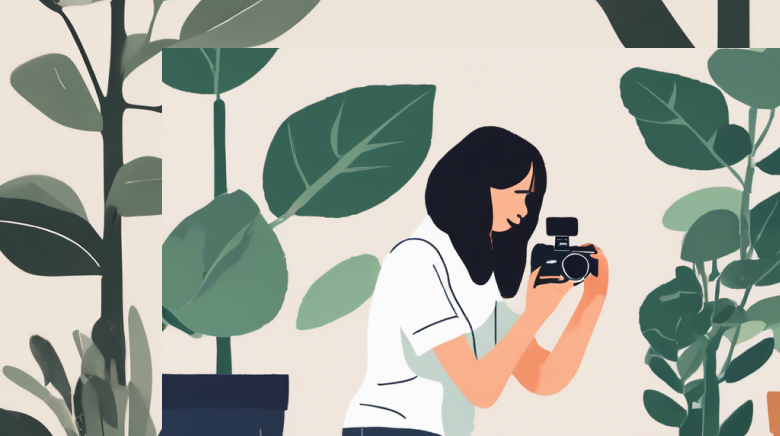
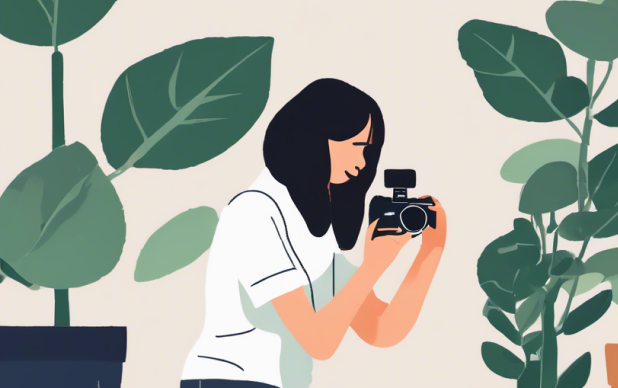
implement parallax scrolling feature in login screen and enhance input validation

diff --git a/floraWise/app/(login)/index.tsx b/floraWise/app/(login)/index.tsx
@@ -1,85 +1,119 @@
+import ParallaxScrollView from "@/components/ParallaxScrollView";
 import { ButtonComponent } from "@/components/ui/ButtonComponent";
 import { InputComponent } from "@/components/ui/InputComponent";
 import { TextComponent } from "@/components/ui/TextComponent";
-import { ImageBackground, View } from "react-native";
+import { useEffect, useRef, useState } from "react";
+import { Dimensions, FlatList, ImageBackground, View } from "react-native";
+
+const SLIDES = [
+  require('@/assets/images/slide1.png'),
+  require('@/assets/images/slide2.png'),
+  require('@/assets/images/slide3.png'),
+  require('@/assets/images/slide4.png'),
+];
+
+const { width } = Dimensions.get('window');
 
 export default function Login() {
+
+  const [currentIndex, setCurrentIndex] = useState(0);
+  const [error, setError] = useState(false);
+  const [name, setName] = useState('');
+  const flatListRef = useRef<FlatList>(null);
+
+  function handleButton() {
+    if(name.length < 3) { 
+      setError(true);
+      return
+    }
+    console.log('Button pressed');
+  }
+
+  useEffect(() => {
+    const interval = setInterval(() => {
+      setCurrentIndex(prevIndex => {
+        const nextIndex = prevIndex === SLIDES.length - 1 ? 0 : prevIndex + 1;
+        flatListRef.current?.scrollToIndex({ index: nextIndex, animated: true });
+        return nextIndex;
+      });
+    }, 1000 * 3);
+
+    return () => clearInterval(interval);
+  }, []);
+
+  const renderItem = ({ item }: { item: any }) => (
+    <ImageBackground
+      source={item}
+      style={{ width, height: 250, alignSelf: 'center' }}
+    >
+      <View style={{ backgroundColor: 'rgba(0,0,0,0.2)', flex: 1 }} />
+    </ImageBackground>
+  );
+
   return (
-    <View style={{flex: 1}}>
-      <ImageBackground
-        source={require('@/assets/images/slide1.png')}
-        style={{ width: '100%', height: 240, alignSelf: 'center' }}
-      >
-        <View style={{backgroundColor: 'rgba(0,0,0,0.2)', flex: 1}}/>
-      </ImageBackground>
-      <View style={{
-        backgroundColor: 'white', 
-        flex: 1, 
-        borderTopLeftRadius: 24, 
-        borderTopRightRadius: 24, 
-        padding: 16,
-        marginTop: -30,
-      }}>
-        <TextComponent
-          color="black"
-          fontFamily="medium"
-          fontSize={22}
-          textAlign="center"
-          >
-          Bem-vindo ao FloraWise
-        </TextComponent>
-        <TextComponent
-          color="black"
-          fontFamily="regular"
-          fontSize={16}
-          textAlign="center"
-          style={{ marginTop: 16 }}
-          >
-          Cuide das suas plantas com inteligência. Aprenda a identificar e cuidar de qualquer planta, em segundos.
-        </TextComponent>
-        <InputComponent
-          placeholder="Digite seu nome"
-          setValue={(value) => console.log(value)}
-          type="default"
-          style={{marginTop: 16}}
-        />
-        <ButtonComponent
-          color="green"
-          handleButton={() => console.log('Login pressed')}
-          text="Continuar"
-          type="solid"
-          style={{marginTop: 16}}
-        />
-      </View>
+    <View style={{ flex: 1, backgroundColor: 'white' }}>
+      <ParallaxScrollView
+        headerBackgroundColor={{ light: '#ffffff', dark: '#000000' }}
+        headerImage={
+          <FlatList
+            ref={flatListRef}
+            data={SLIDES}
+            renderItem={renderItem}
+            keyExtractor={(_, idx) => idx.toString()}
+            scrollEnabled={false}
+            horizontal
+            pagingEnabled
+            showsHorizontalScrollIndicator={false}
+            onMomentumScrollEnd={e => {
+              const index = Math.round(e.nativeEvent.contentOffset.x / width);
+              setCurrentIndex(index);
+            }}
+          />
+        }>
+        <View style={{
+          backgroundColor: 'white', 
+          flex: 1, 
+          borderTopLeftRadius: 24, 
+          borderTopRightRadius: 24, 
+          padding: 16,
+          marginTop: -30,
+        }}>
+          <TextComponent
+            color="black"
+            fontFamily="medium"
+            fontSize={22}
+            textAlign="center"
+            >
+            Bem-vindo ao FloraWise
+          </TextComponent>
+          <TextComponent
+            color="black"
+            fontFamily="regular"
+            fontSize={16}
+            textAlign="center"
+            style={{ marginTop: 16 }}
+            >
+            Cuide das suas plantas com inteligência. Aprenda a identificar e cuidar de qualquer planta, em segundos.
+          </TextComponent>
+          <InputComponent
+            placeholder="Digite seu nome"
+            setValue={(value) => {
+              if(error) setError(false);
+              setName(value);
+            }}
+            type="default"
+            style={{marginTop: 16}}
+            textError="Nome deve ter pelo menos 3 caracteres"
+            showError={error}
+          />
+          <ButtonComponent
+            color="green"
+            handleButton={handleButton}
+            text="Continuar"
+            type="solid"
+          />
+        </View>
+      </ParallaxScrollView>
     </View>
   )
 }
-
-{/* <ParallaxScrollView
-headerBackgroundColor={{ light: '#A1CEDC', dark: '#1D3D47' }}
-headerImage={
-  <ImageBackground
-    source={require('@/assets/images/slide1.png')}
-    style={{ width: '100%', height: 240, alignSelf: 'center' }}
-  >
-    <View style={{backgroundColor: 'rgba(0,0,0,0.2)', flex: 1}}/>
-  </ImageBackground>
-}>
-<View style={{
-  backgroundColor: 'white', 
-  flex: 1, 
-  borderTopLeftRadius: 24, 
-  borderTopRightRadius: 24, 
-  padding: 16,
-  marginTop: -30,
-}}>
-  <TextComponent
-  color="black"
-  fontFamily="bold"
-  fontSize={22}
-  textAlign="center"
-  >
-    Bem-vindo ao FloraWise
-  </TextComponent>
-</View>
-</ParallaxScrollView> */}

diff --git a/floraWise/components/ui/InputComponent.tsx b/floraWise/components/ui/InputComponent.tsx
@@ -154,13 +154,12 @@ export const InputComponent = ({
           </TouchableOpacity>
         ) : null}
       </View>
-      <View style={{height: textError ? 20 : 0}}>
+      <View style={{height: textError ? 20 : 0, marginTop: textError ? 3 : 0, marginBottom: textError ? 4 : 0}}>
         {showError && textError && (
           <TextComponent
             color='red'
             fontFamily='regular'
             fontSize={11}
-            style={{marginTop: 2, marginBottom: 4}}
           >
             {textError}
           </TextComponent>

diff --git a/floraWise/components/ParallaxScrollView.tsx b/floraWise/components/ParallaxScrollView.tsx
@@ -48,6 +48,7 @@ export default function ParallaxScrollView({
         scrollEventThrottle={16}
         style={{height: '100%', width: '100%'}}
         scrollIndicatorInsets={{ bottom }}
+        keyboardShouldPersistTaps="handled"
         contentContainerStyle={{ paddingBottom: bottom }}>
         <Animated.View
           style={[
